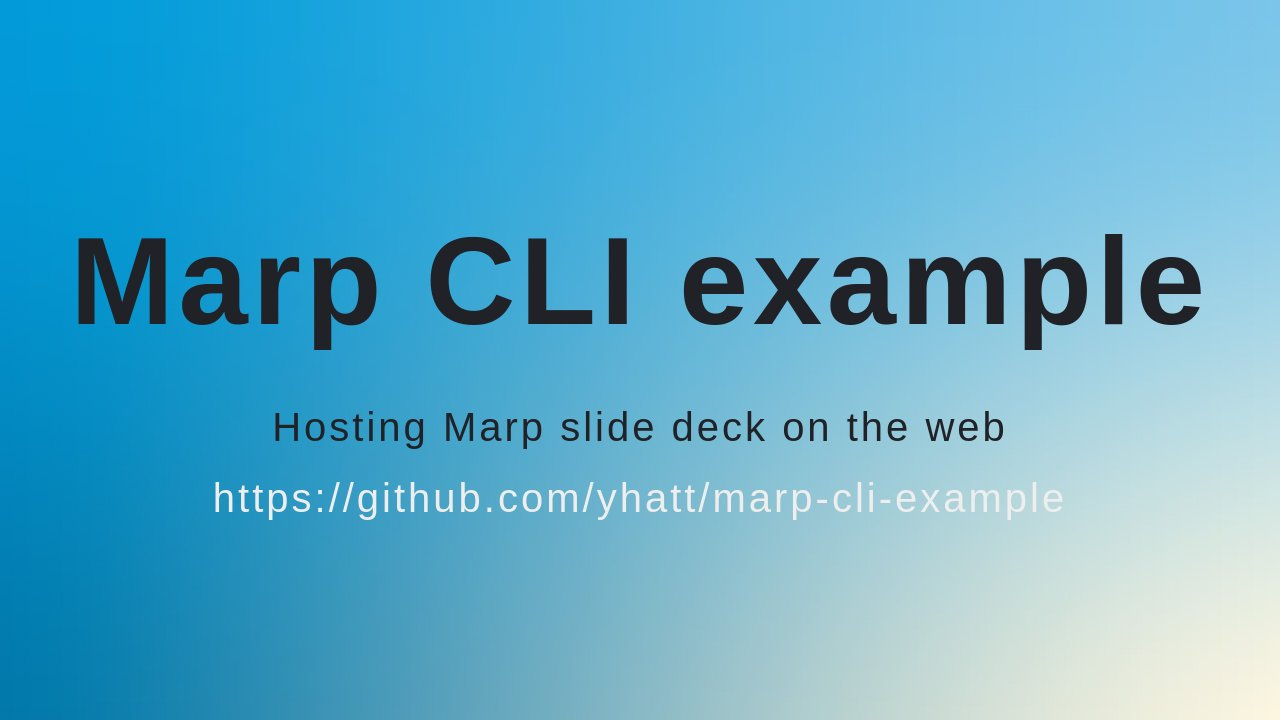
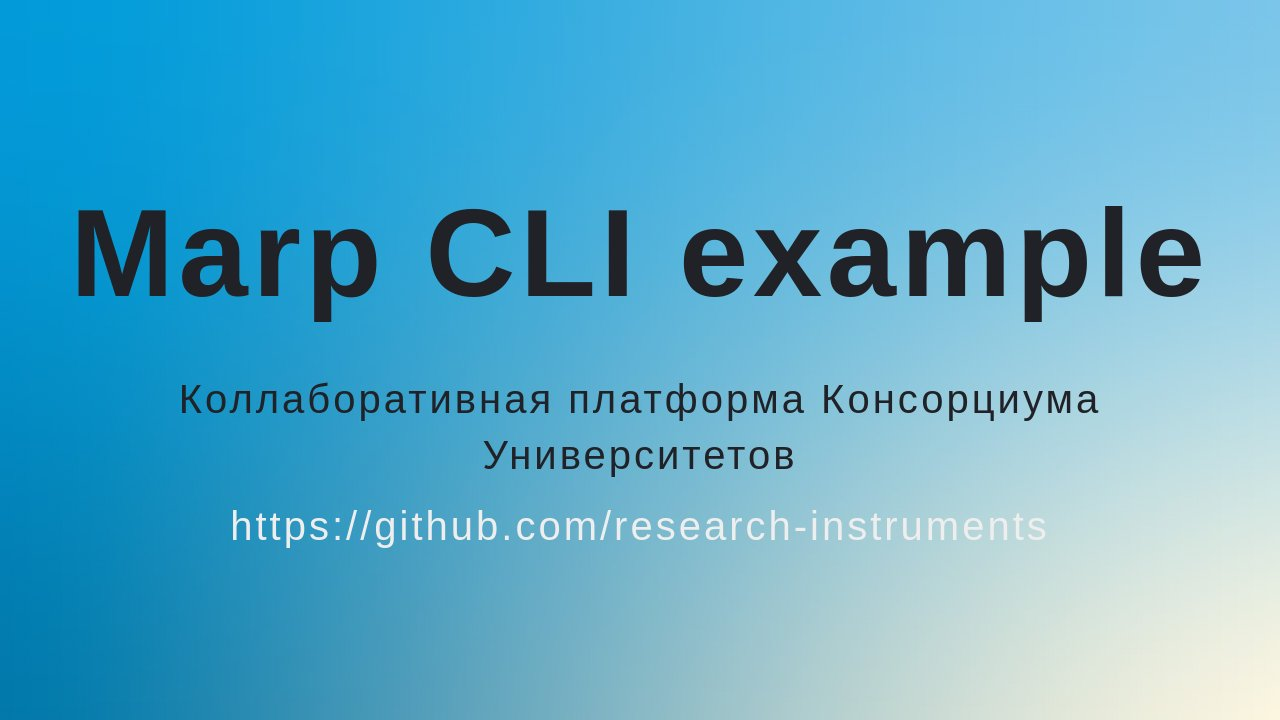
Deploying to gh-pages from  @ 6d0497295f867ea4851a6f9bb5eab94e2be499d3 🚀

diff --git a/index.html b/index.html
@@ -1,4 +1,4 @@
[2 lines of base64/hex data omitted]
 /*!
  * Marp / Marpit Uncover theme
  *
@@ -8,10 +8,10 @@
  * @auto-scaling fittingHeader,math
  * @size 16:9 1280px 720px
  * @size 4:3 960px 720px
[2 lines of base64/hex data omitted]
 <h1><svg data-marp-fitting="svg"><foreignObject><span data-marp-fitting-svg-content> Marp CLI example</span></foreignObject></svg></h1>
-<p>Hosting Marp slide deck on the web</p>
-<p><a href="https://github.com/yhatt/marp-cli-example">https://github.com/yhatt/marp-cli-example</a></p>
+<p>Коллаборативная платформа Консорциума Университетов</p>
+<p><a href="https://github.com/research-instruments">https://github.com/research-instruments</a></p>
 </section>
 </foreignObject><foreignObject width="1280" height="720" data-marpit-advanced-background="pseudo"><section style="" data-marpit-advanced-background="pseudo"></section></foreignObject></svg><svg data-marpit-svg="" viewBox="0 0 1280 720"><foreignObject width="1280" height="720"><section data-paginate="true" data-theme="uncover" data-marpit-pagination="2" data-marpit-pagination-total="8" style="--paginate:true;--theme:uncover;" data-marpit-advanced-background="background"><div data-marpit-advanced-background-container="true" data-marpit-advanced-background-direction="horizontal"><figure style="background-image:url(&quot;https://raw.githubusercontent.com/marp-team/marp/master/marp.png&quot;);background-size:60%;"></figure></div></section></foreignObject><foreignObject width="1280" height="720"><section id="2" data-paginate="true" data-theme="uncover" data-marpit-pagination="2" data-marpit-pagination-total="8" style="--paginate:true;--theme:uncover;" data-marpit-advanced-background="content"></section>
 </foreignObject><foreignObject width="1280" height="720" data-marpit-advanced-background="pseudo"><section style="" data-marpit-advanced-background="pseudo" data-marpit-pagination="2" data-marpit-pagination-total="8"></section></foreignObject></svg><svg data-marpit-svg="" viewBox="0 0 1280 720"><foreignObject width="1280" height="720"><section id="3" data-paginate="true" data-theme="uncover" data-background-color="#123" data-color="#fff" data-marpit-pagination="3" data-marpit-pagination-total="8" style="--paginate:true;--theme:uncover;--background-color:#123;--color:#fff;color:#fff;background-color:#123;background-image:none;">
